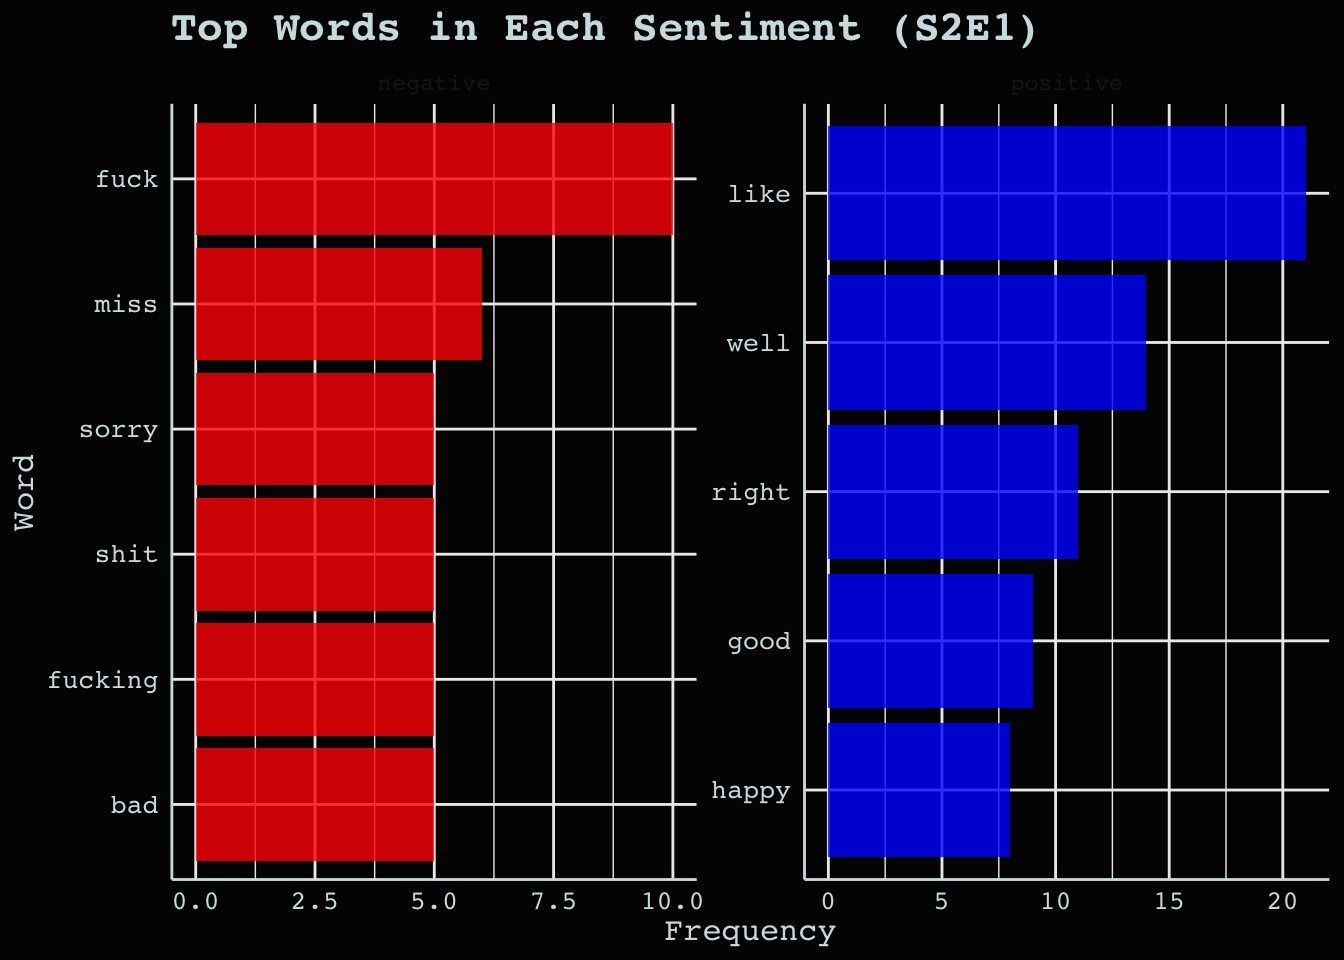
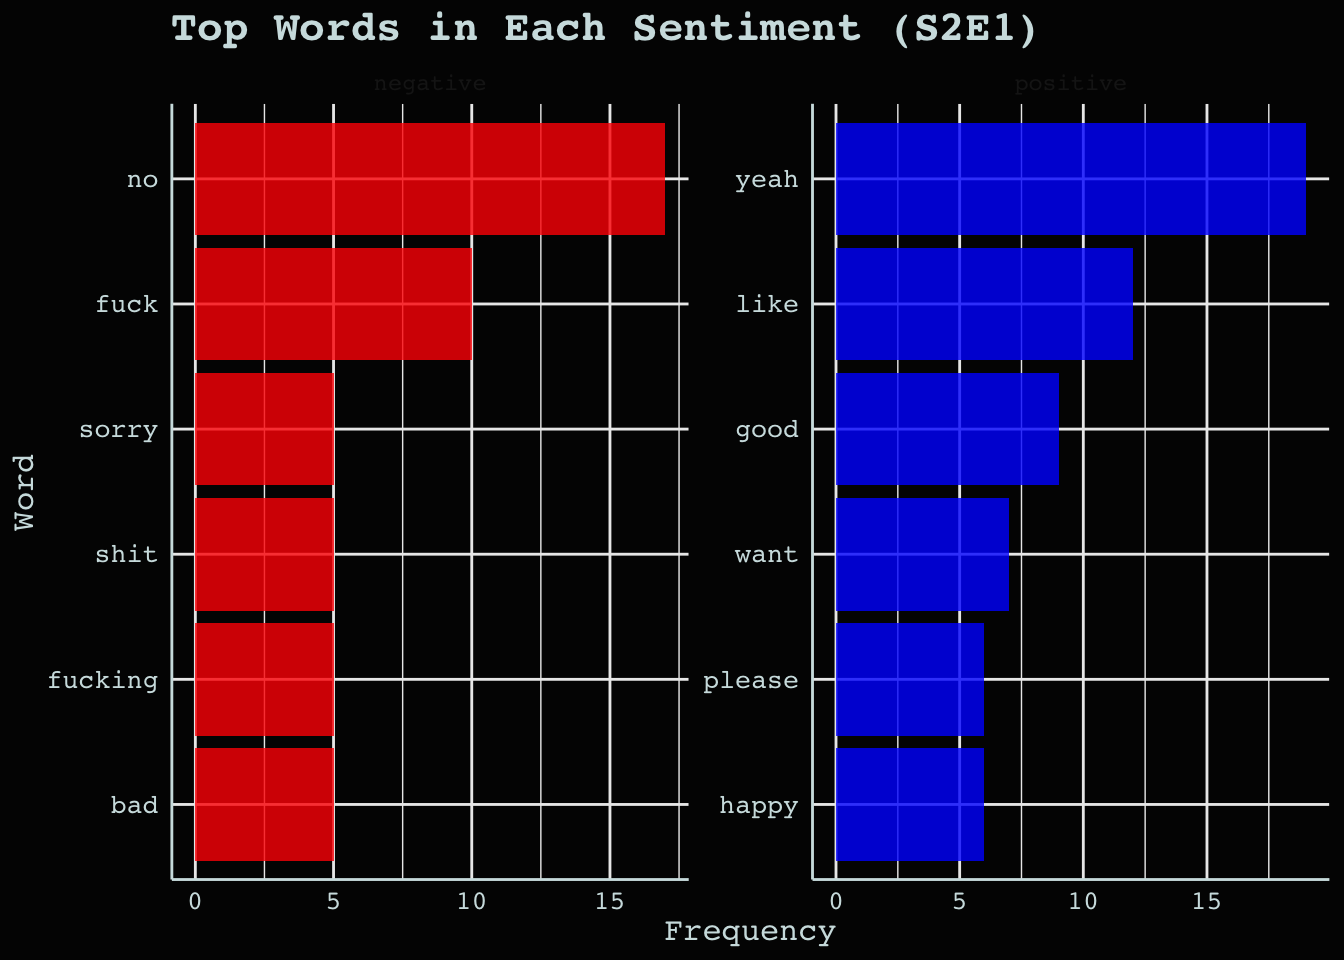
Built site for gh-pages

diff --git a/analysis-innie-sentiment/index.html b/analysis-innie-sentiment/index.html
@@ -87,7 +87,7 @@ ul.task-list li input[type="checkbox"] {
 <center>
 <section id="sentiment-analysis-innies-vs-outies" class="level2 text">
 <h2 data-anchor-id="sentiment-analysis-innies-vs-outies">Sentiment analysis, innies vs outies</h2>
-<p>This analysis was made possible by the <a href="https://lucymcgowan.github.io/mdr">mdr</a> R package, which used data originally compiled by <a href="https://severance.wiki/">the Severance wiki</a>. I looked at the first two episodes of season two, the first, which consists of just time with the innies, and the second with the outies. I was interested in the difference in sentiment, using <a href="https://juliasilge.github.io/tidytext/reference/sentiments.html">the sentiment lexicon compiled by Bing Liu and collaborators</a>. I calculated a sentiment score by taking the positive - negative scores, higher scores indicate the episode was more positive. It looks like the innies are <code>TWO TIMES</code> more positive, in terms of language, compared to the outies. wow.</p>
+<p>This analysis was made possible by the <a href="https://lucymcgowan.github.io/mdr">mdr</a> R package, which used data originally compiled by <a href="https://severance.wiki/">the Severance wiki</a>. I looked at the first two episodes of season two, the first, which consists of just time with the innies, and the second with the outies. I was interested in the difference in sentiment, using the AFINN sentiment lexicon. It looks like the innies are far more negative, in terms of language, compared to the outies, with the innies having a negative average sentiment score (<code>-0.26</code>) and the outies a positive score (<code>0.26</code>). We can look at the distribution.</p>
 </section>
 <div class="cell">
 <div class="cell-output-display">
